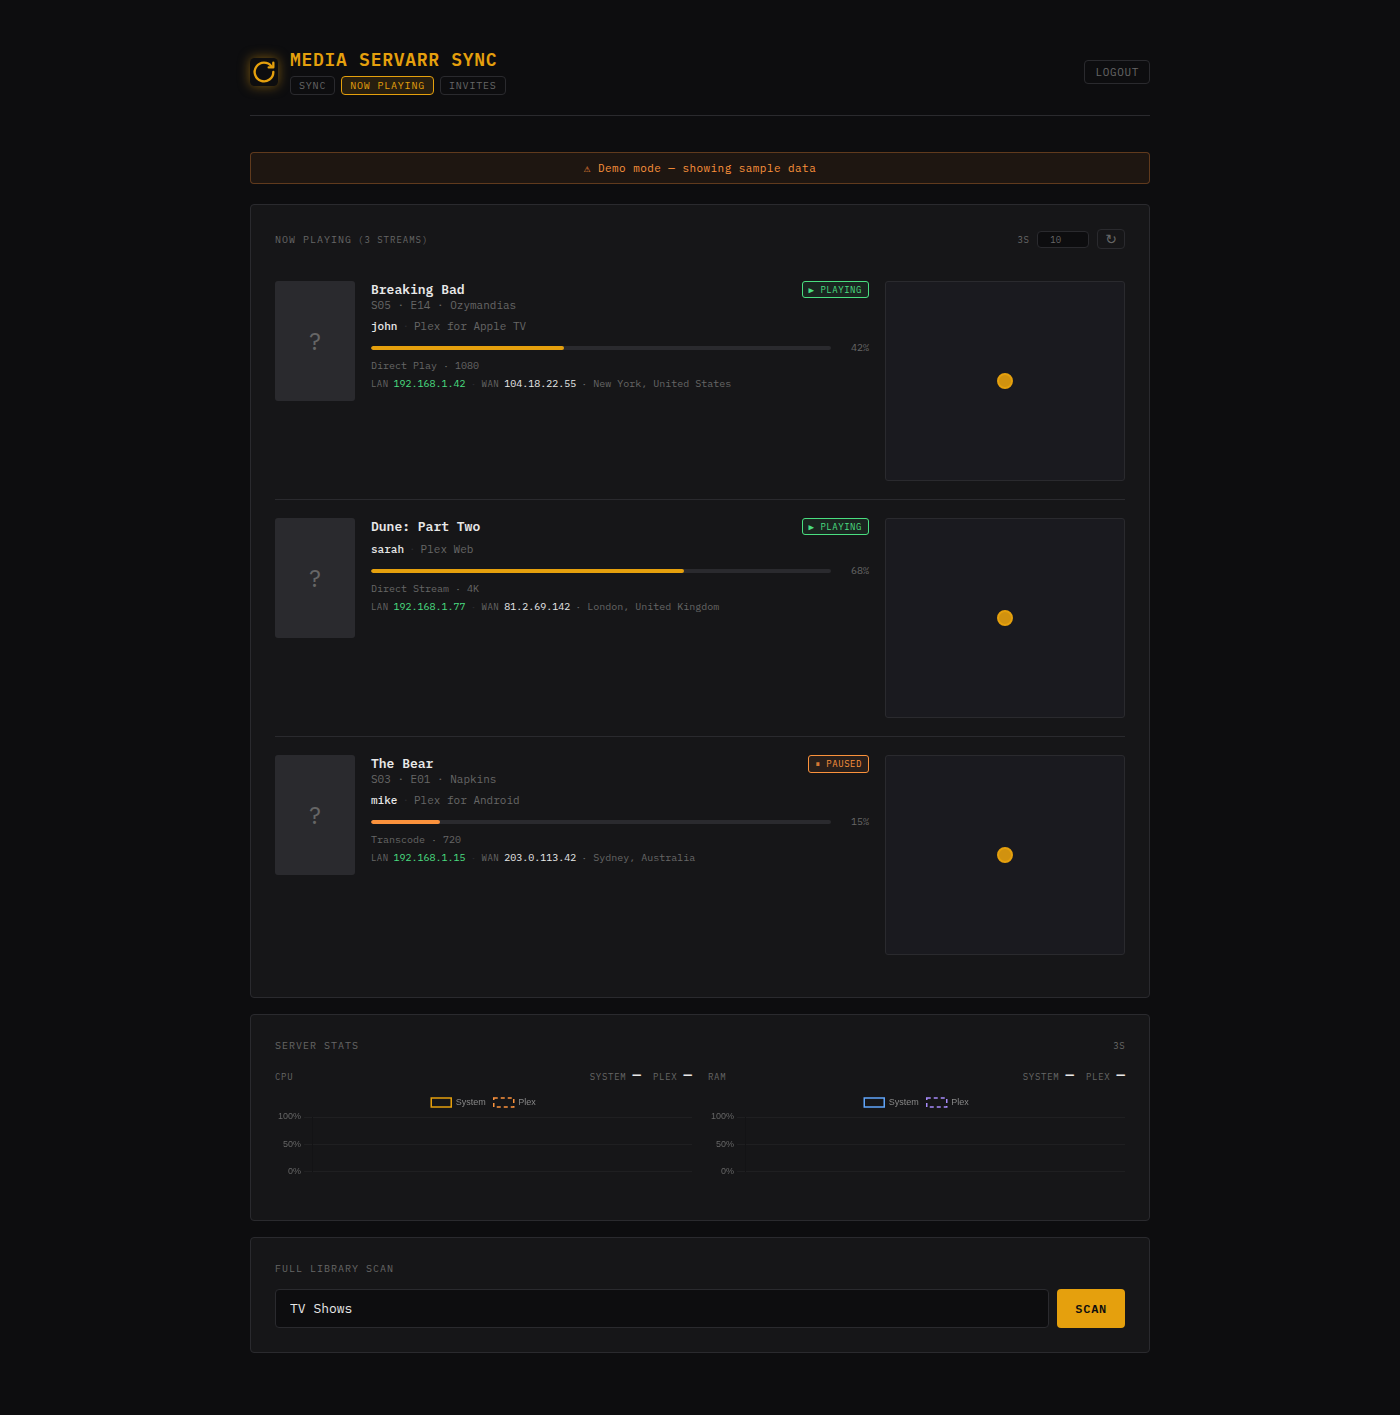
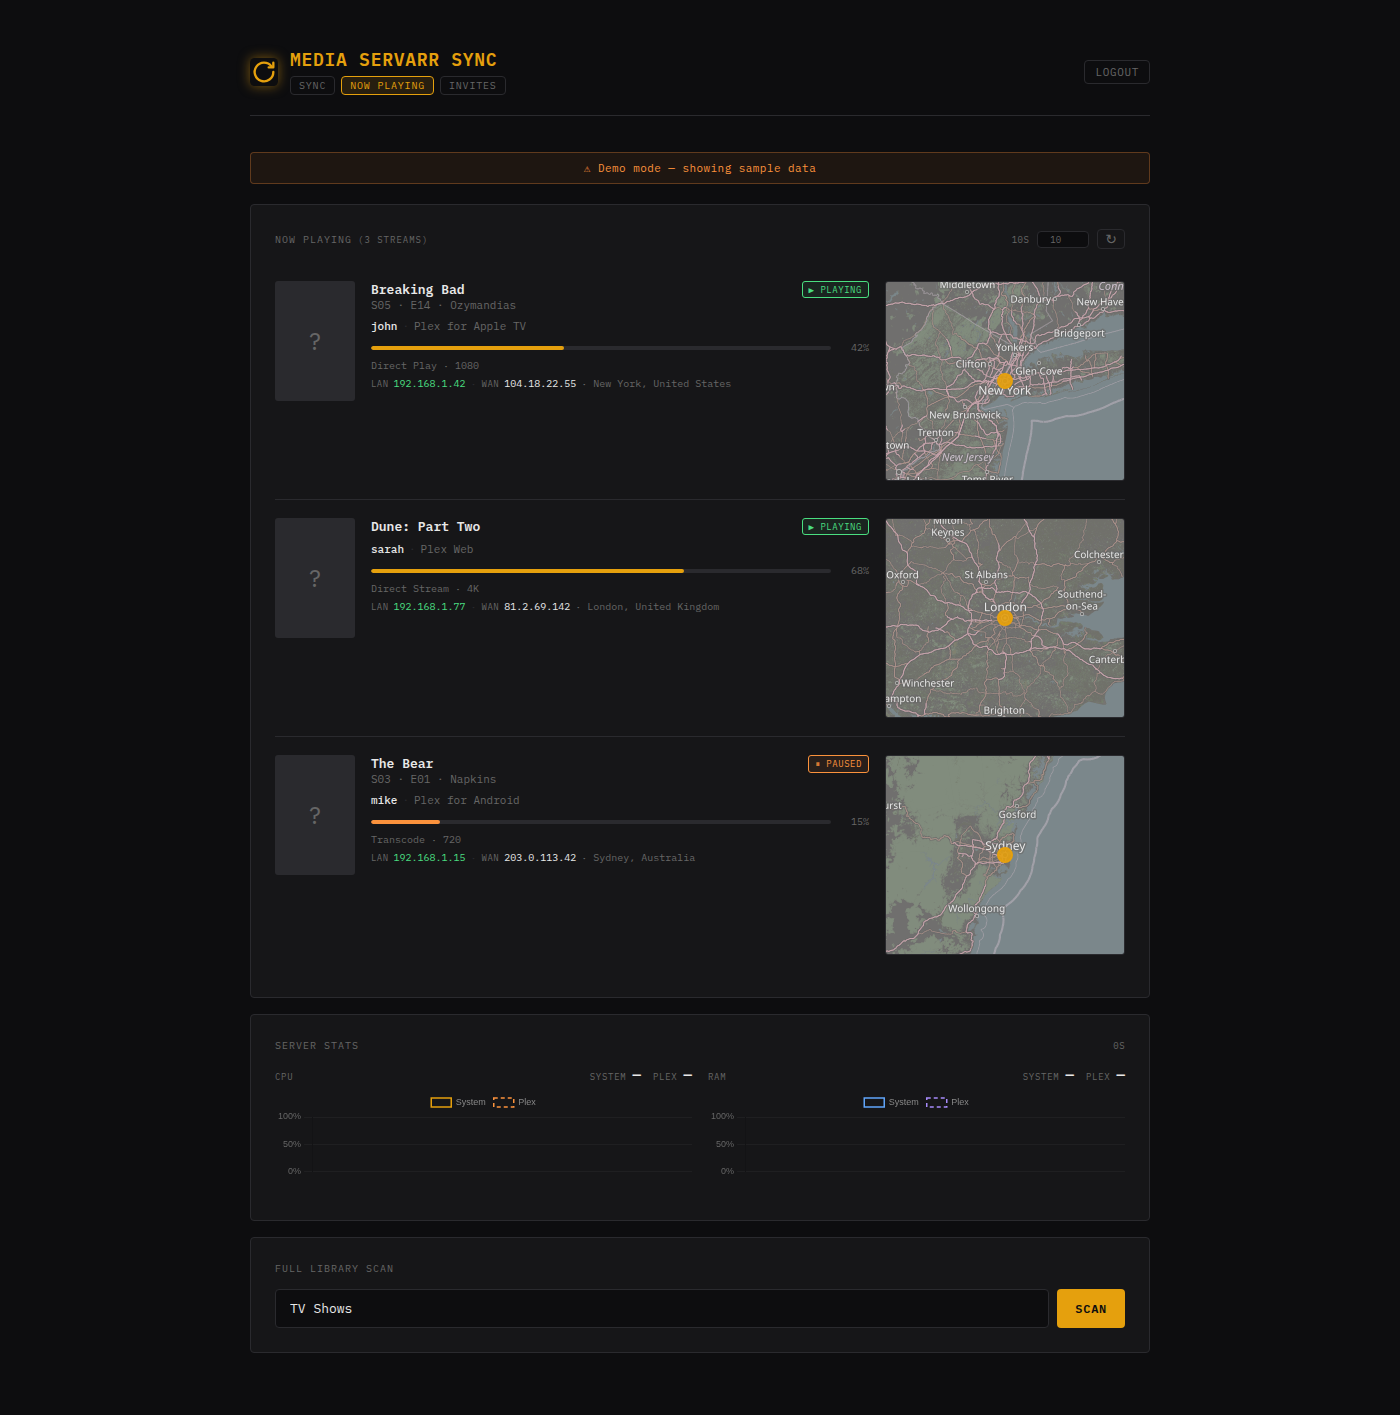
feat: proxy OSM map tiles through Flask to avoid external browser requests; update screenshot

Changed region(s): [[0.6143, 0.1866, 0.8293, 0.6841]]

diff --git a/templates/now_playing.html b/templates/now_playing.html
@@ -834,7 +834,7 @@
             scrollWheelZoom: false, dragging: false,
             touchZoom: false, doubleClickZoom: false,
           });
-          L.tileLayer('https://{s}.tile.openstreetmap.org/{z}/{x}/{y}.png', {maxZoom: 19}).addTo(map);
+          L.tileLayer('/api/maptile/{z}/{x}/{y}.png', {maxZoom: 19}).addTo(map);
           L.circleMarker([geo.lat, geo.lon], {
             radius: 7, color: '#e5a00d', fillColor: '#e5a00d', fillOpacity: 0.9, weight: 2
           }).bindTooltip(location, {permanent: false, direction: 'top'}).addTo(map);

diff --git a/media-servarr-sync.py b/media-servarr-sync.py
@@ -2063,6 +2063,26 @@ def api_libraries():
         return jsonify({'error': 'Failed to fetch libraries', 'libraries': []}), 500
 
 
[email redacted]('/api/maptile/<int:z>/<int:x>/<int:y>.png')
+@requires_auth
+def api_maptile(z, x, y):
+    """Proxy OpenStreetMap tiles server-side so the browser never needs direct OSM access."""
+    if not (0 <= z <= 19 and 0 <= x < 2**z and 0 <= y < 2**z):
+        return '', 400
+    url = f"https://tile.openstreetmap.org/{z}/{x}/{y}.png"
+    try:
+        r = requests.get(url, timeout=10, headers={'User-Agent': 'media-servarr-sync/1.0'})
+        if not r.ok:
+            return '', r.status_code
+        resp = make_response(r.content)
+        resp.headers['Content-Type'] = 'image/png'
+        resp.headers['Cache-Control'] = 'public, max-age=86400'
+        return resp
+    except Exception as exc:
+        log.debug("Map tile fetch failed %s/%s/%s: %s", z, x, y, exc)
+        return '', 502
+
+
 @app.route('/api/geoip')
 @requires_auth
 def api_geoip():